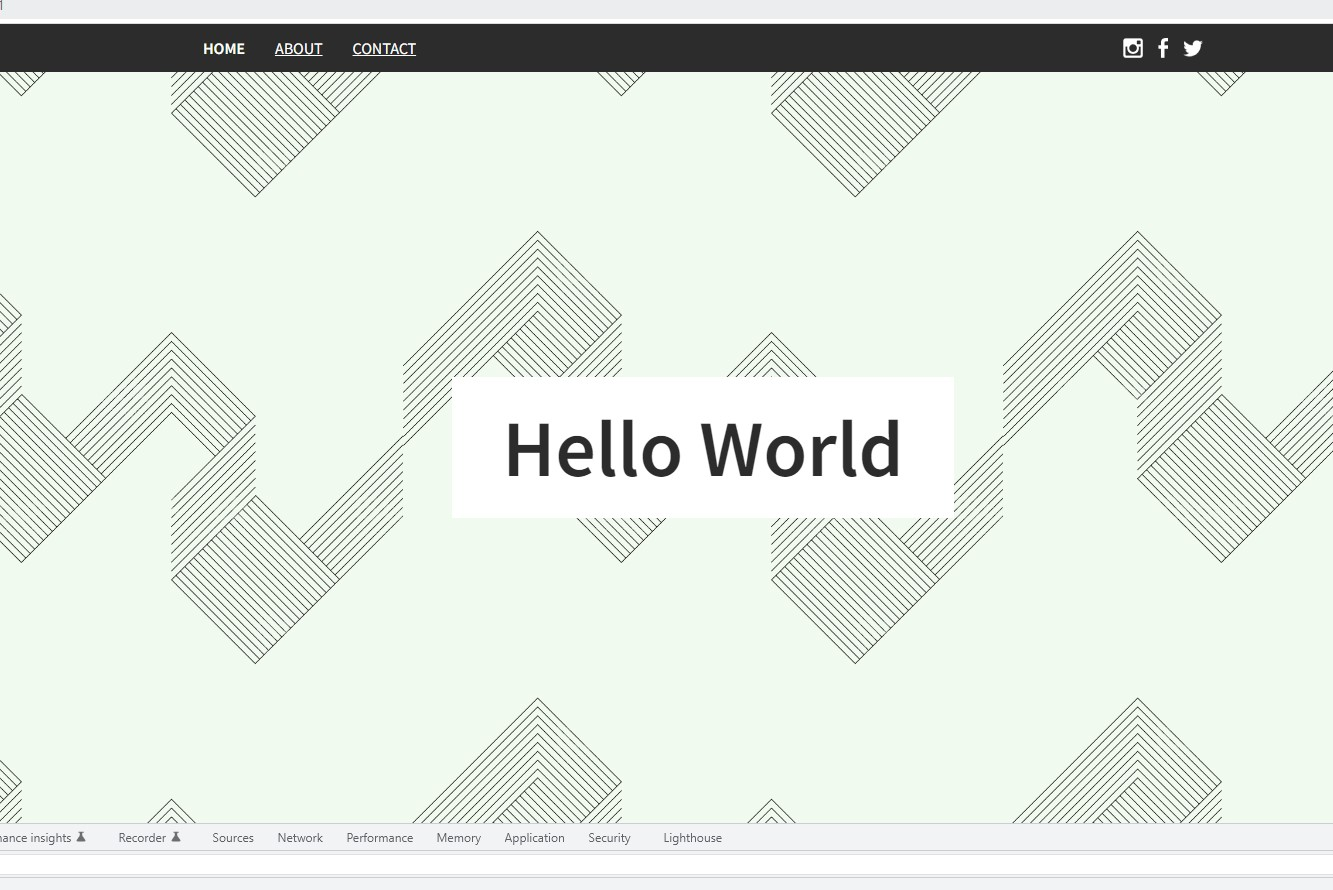
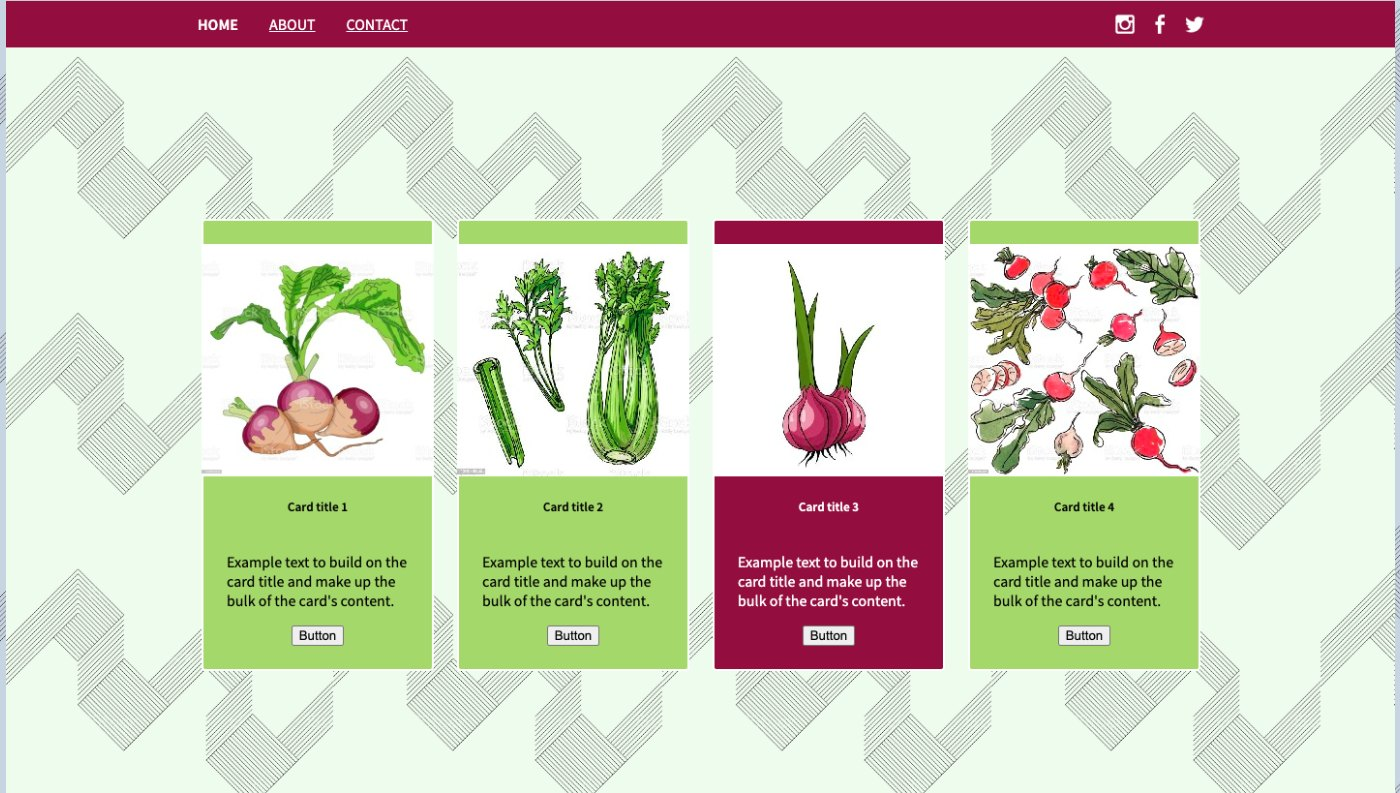
part 5 target

diff --git a/index.html b/index.html
@@ -29,18 +29,36 @@
         </div>
       </div>
     </header>
-    
-    <div class="hero">
-      <h1>Hello SASS</h1>
-    </div>
+    <main>
+      <section>
+        <div class="card">
+          <img src="./imgs/vegetables1.jpg" />
+          <h5>Card title 1</h5>
+          <p>Example text to build on the card title and make up the bulk of the card's content.</p>
+          <button onclick="changeBckgr(event)">Button</button>
+        </div>
 
-    <footer>
-      <h3>Footer</h3>
-      <p>Esse tempor do sit sint cillum dolore aliquip mollit minim veniam esse eu. Ut mollit Lorem nisi aliqua. Quis irure minim aute duis exercitation consectetur nulla Lorem minim nulla. Velit ex velit sit esse.</p>
+        <div class="card">
+          <img src="./imgs/vegetables2.jpg" />
+          <h5>Card title 2</h5>
+          <p>Example text to build on the card title and make up the bulk of the card's content.</p>
+          <button onclick="changeBckgr(event)">Button</button>
+        </div>
 
-      <p>Dolore dolor occaecat consectetur et ut reprehenderit mollit velit enim laboris et eu elit culpa. Ad dolore in excepteur excepteur exercitation occaecat minim aute cupidatat proident qui consectetur non dolore. Qui veniam est ut veniam mollit consectetur aliqua Lorem ea Lorem elit esse dolore.</p>
+        <div class="card card--magenta">
+          <img src="./imgs/vegetables3.jpg" />
+          <h5>Card title 3</h5>
+          <p>Example text to build on the card title and make up the bulk of the card's content.</p>
+          <button onclick="changeBckgr(event)">Button</button>
+        </div>
 
-      <p>In qui sit nostrud qui nulla id ullamco. Lorem mollit qui cupidatat sunt ut consectetur reprehenderit sit id nulla incididunt. Aute proident reprehenderit labore incididunt sunt. Laboris sint minim anim nulla consequat. Ex sit sit ullamco veniam. Consequat labore quis proident mollit exercitation culpa non adipisicing tempor veniam.</p>
-    </footer>
+        <div class="card">
+          <img src="./imgs/vegetables4.jpg" />
+          <h5>Card title 4</h5>
+          <p>Example text to build on the card title and make up the bulk of the card's content.</p>
+          <button onclick="changeBckgr(event)">Button</button>
+        </div>
+      </section>
+    </main> 
   </body>
 </html>

diff --git a/css/styles.css b/css/styles.css
@@ -5,7 +5,7 @@ html {
 /* stylelint-enable unit-disallowed-list */
 
 body {
-  background-color: #F1FAEE;
+  background-color: #f1faee;
   font-family: "Source Sans Pro", sans-serif;
   margin: 0 auto;
 }
@@ -13,18 +13,16 @@ body {
 * {
   box-sizing: border-box;
 }
- 
-  
 
 header {
-  background-color:  #2c2c2c;
+  background-color: #862843;
   display: flex;
-  height: 3rem; 
+  height: 3rem;
 }
 
 .header__container {
   align-items: center;
-  display: flex; 
+  display: flex;
   flex-basis: 100%;
   justify-content: space-between;
   margin: auto;
@@ -33,12 +31,12 @@ header {
 
 .header__container-nav {
   display: flex;
-  gap: 2rem;  
+  gap: 2rem;
 }
 
 .header__container-media {
   display: flex;
-  gap: 1rem;  
+  gap: 1rem;
 }
 
 .header__container-nav-item {
@@ -76,27 +74,37 @@ footer {
   text-align: center;
 }
 
-/* 
-input {
-  display: inline-block;
-  font-weight: 300;
-  height: 40px;
-  margin: 0 0 24px;
-  width: 100px;
+.card {
+  background-color: #b3d16d;
+  border: solid 2px white;
+  border-radius: 4px;
+  padding: 24px;
 }
 
-
-i {
-  font-weight: 400;
+.card--magenta {
+  background-color: #862843;
+  color: white;
 }
 
-h5 {
-  margin: 24px 0;
+section {
+  display: grid;
+  gap: 24px;
+  grid-template-columns: repeat(4, 240px);
+  justify-content: center;
 }
 
-button {
-  border: 0;
-  width: 200px;
+div {
+  align-items: center;
+  display: flex;
+  flex-wrap: wrap;
+  justify-content: center;
 }
 
-button:hover {} */
+main {
+  display: flex;
+  height: 100vh;
+  align-items: center;
+  justify-content: center;
+  background-image: url("../imgs/hero-background.png");
+  background-size: 340px;
+}
